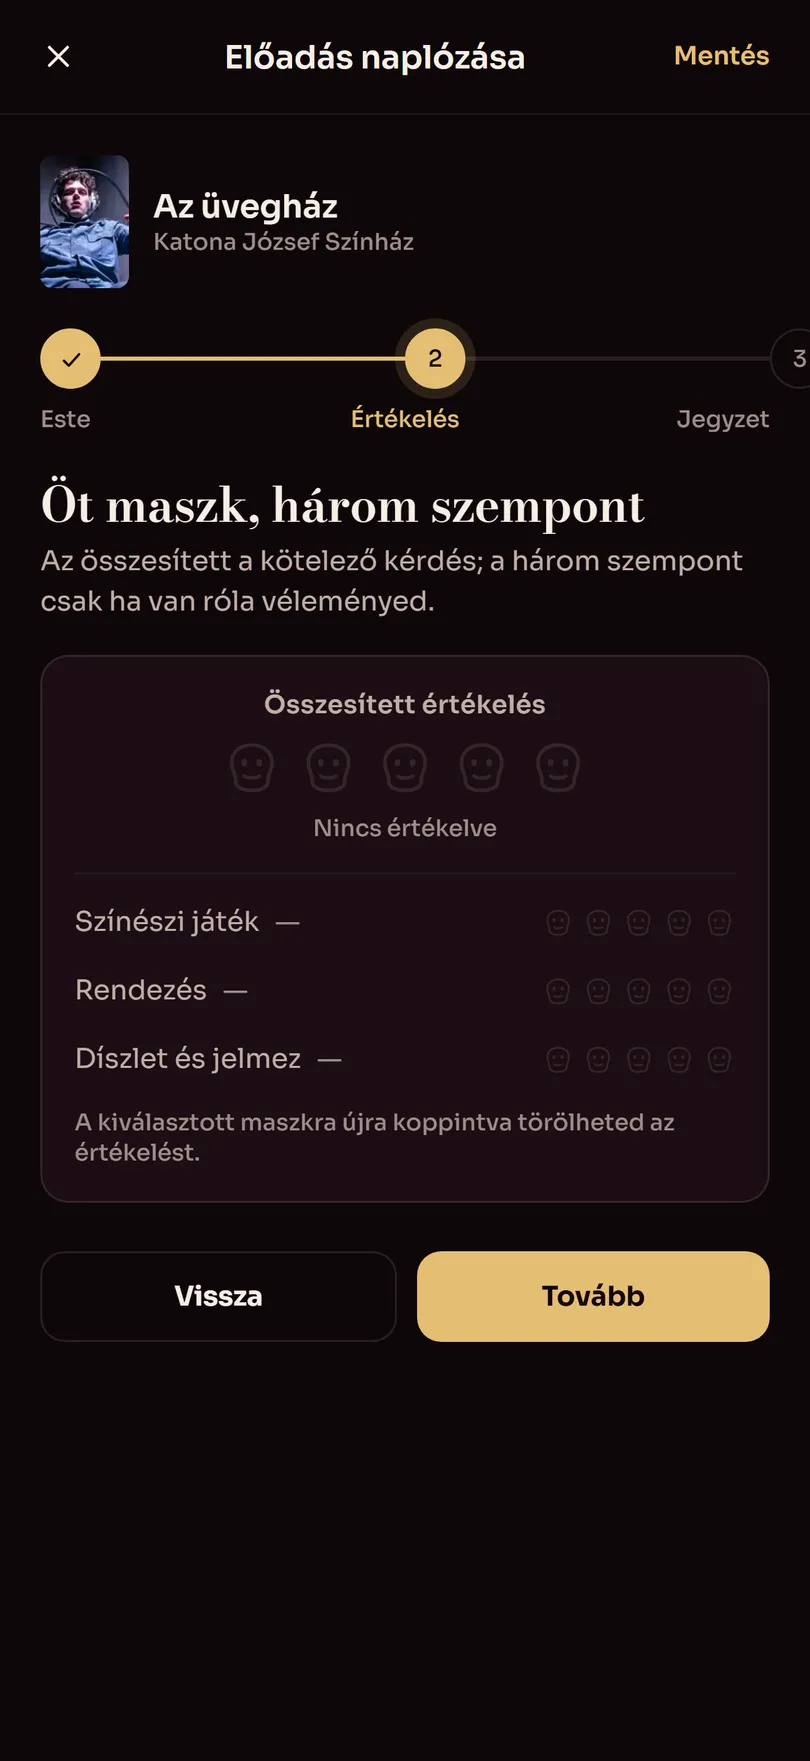
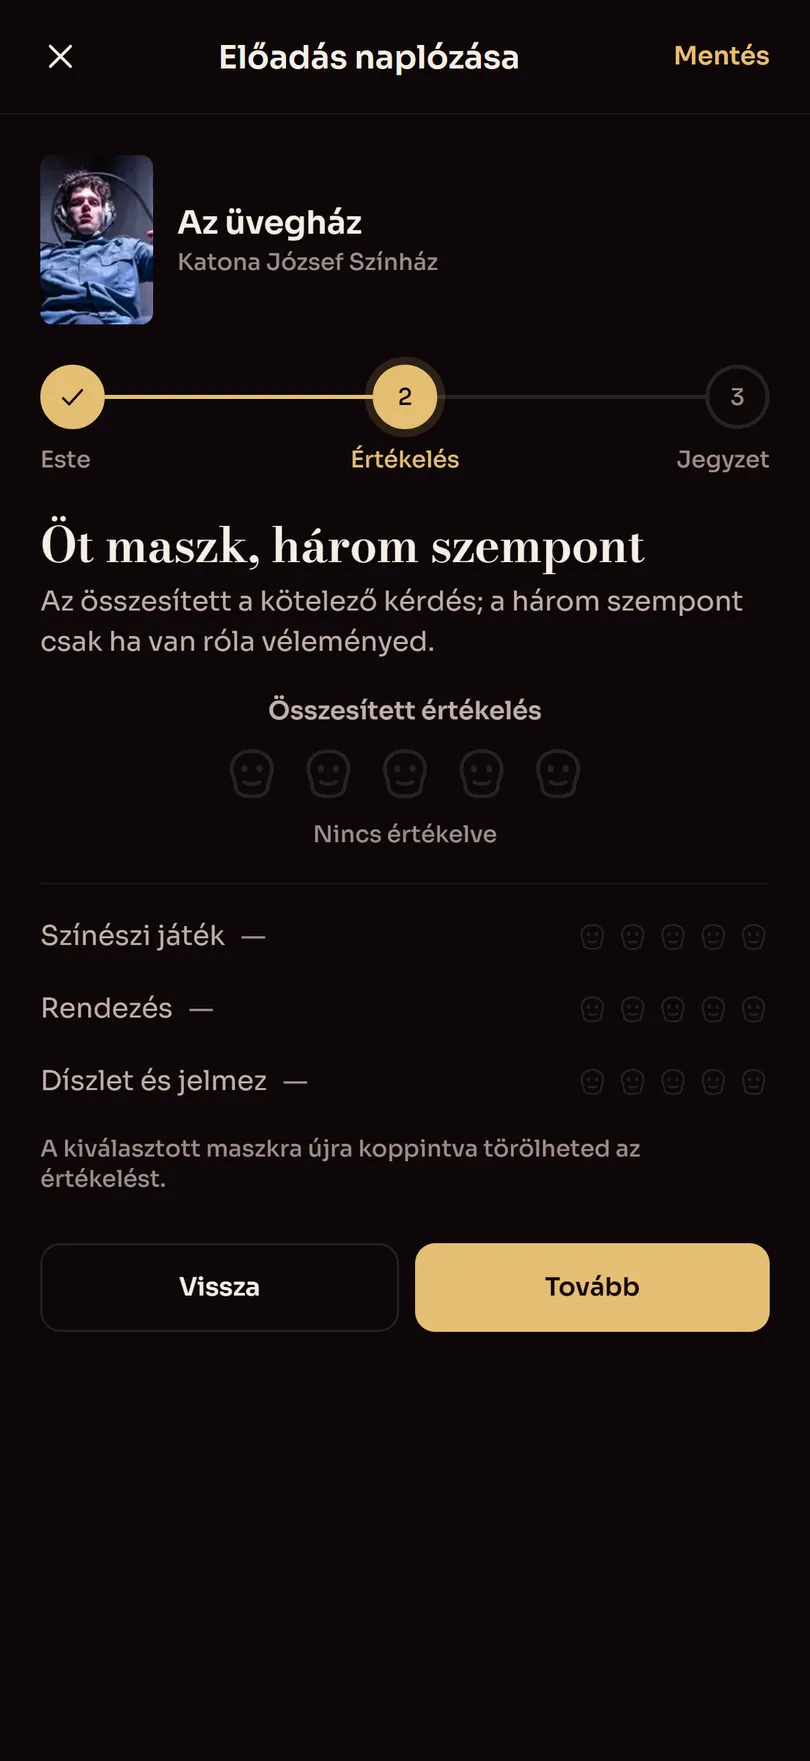
The screenshots catch up with the app they are of
All nine were taken before the Velvet Curtain pass — four of them on 13
September, the rest on the 18th — so for the last nine days the landing
page, the questionnaire, the share card and the Play listing have all
been advertising an app that no longer exists. Forty commits touching
`app/`, `theme/` and `components/` landed in between, including every
screen on the page.

Re-taken against the deployed site, which is the honest source: it runs
the same bundle a visitor would get.

**Five new evenings on the demo accounts first, with Ottó's approval.**
The newest entry was 15 September, so the feed read two weeks old and got
quieter every day — a landing page whose only visible activity is
fortnight-old reads as abandoned, which is T-024's point and the trap it
warned about: re-taking the shot is what surfaces it.

Insert only. Nothing existing was changed or removed, Eszter's *Az
üvegház* entry is untouched because the check-in shot depends on which
entry it returns, and every row is a real performance that actually
played on its date, at a house in that account's own city, against a
production with a complete poster and cast:

| Who | Production | Venue | Played |
|---|---|---|---|
| Nagy Zsófia | Evita | Madách | 20 Sept |
| Nagy Zsófia | Magányos emberek | Katona | 19 Sept |
| Kovács Bence | Bernarda Alba háza | Csokonai | 22 Sept |
| Kovács Bence | Tóték | Csokonai | 20 Sept |
| Tóth Eszter | A nagy Gatsby | Vígszínház | 20 Sept |
[…]

diff --git a/landing/index.html b/landing/index.html
@@ -367,8 +367,8 @@ footer a{color:var(--vc-text-faint);text-decoration:none}footer a:hover{color:va
       <div class="facts"><span data-t="fact1"><b>1241</b> produkció</span><span data-t="fact2"><b>Budapest</b> és <b>Debrecen</b></span><span data-t="fact3"><b>Éjszakánként</b> frissül</span><span data-t="fact4"><b>Nincs</b> hirdetés</span></div>
     </div>
     <div class="phones" aria-hidden="true">
-      <div class="ph a" data-tilt><img src="shots/discover.webp?v=30fead89" alt="" width="810" height="1761"><div class="glare"></div></div>
-      <div class="ph b" data-tilt><img src="shots/play.webp?v=f607f1bd" alt="" width="810" height="1761"><div class="glare"></div></div>
+      <div class="ph a" data-tilt><img src="shots/discover.webp?v=bc58d6e3" alt="" width="810" height="1761"><div class="glare"></div></div>
+      <div class="ph b" data-tilt><img src="shots/play.webp?v=82a32fd2" alt="" width="810" height="1761"><div class="glare"></div></div>
     </div>
   </div>
 </section>
@@ -432,7 +432,7 @@ footer a{color:var(--vc-text-faint);text-decoration:none}footer a:hover{color:va
           <ul><li data-t="act1Li1"><b>Műsor.</b> Nem darabok listája: estéké. Napokra bontva, teremmel, hosszal és műfajjal.</li><li data-t="act1Li2"><b>Rangsorolt keresés.</b> Ékezet nélkül is megtalálja. A „Csuja Imre” a színészre keres, nem a szavakra.</li><li data-t="act1Li3"><b>Szűrők.</b> Műfaj, színház, terjedelem, rendezés — ahol egy városban egy színház van, a színházszűrő elrejti magát.</li><li data-t="act1Li4"><b>Archívum.</b> Közel kilencszáz rég levett produkció. Kereshető marad, és naplózható.</li></ul>
           <div class="states"><span class="lbl" data-t="statesLbl">Négy állapot:</span><span class="state pre"><i></i><span data-t="stPre">Bemutató előtt</span></span><span class="state on"><i></i><span data-t="stOn">Műsoron</span></span><span class="state"><i></i><span data-t="stDormant">Szünetel</span></span><span class="state off"><i></i><span data-t="stOff">Levették</span></span></div>
         </div>
-        <div class="vis"><span class="roman">I.</span><div class="ph"><img src="shots/discover.webp?v=30fead89" data-t-alt="act1Alt" alt="Felfedezés képernyő: a ma esti kiemelt előadás, alatta a következő esték műsora" width="810" height="1761"></div></div>
+        <div class="vis"><span class="roman">I.</span><div class="ph"><img src="shots/discover.webp?v=bc58d6e3" data-t-alt="act1Alt" alt="Felfedezés képernyő: a ma esti kiemelt előadás, alatta a következő esték műsora" width="810" height="1761"></div></div>
       </article>
       <article class="act" id="naplo">
         <div class="txt"><span class="eyebrow" data-t="act2Eyebrow">II. felvonás · A napló</span><h3 data-t="act2Title">Öt maszk, három szempont, egy este.</h3>
@@ -441,14 +441,14 @@ footer a{color:var(--vc-text-faint);text-decoration:none}footer a:hover{color:va
           <p data-t="act2Body">Naplózz egy előadást: melyik estén voltál, és mit gondoltál róla. A színészi játékot, a rendezést és a díszletet külön értékeled — és megírhatod, amire évek múlva is emlékezni akarsz.</p>
           <ul><li data-t="act2Li1"><b>Az évad, nem a naptári év.</b> Szeptembertől augusztusig számol, ahogy a színházak is.</li><li data-t="act2Li2"><b>Újranézés.</b> Ugyanaz a darab másodszor külön bejegyzés — mert nem ugyanaz az este volt.</li><li data-t="act2Li3"><b>Címkék és jegyzet.</b> „Állótapsot kapott”, „Megkönnyeztem”, „Ajánlom” — és egy szabad szöveg, ha többet akarsz mondani.</li><li data-t="act2Li4"><b>A profilod egy bérlet.</b> Az évad végén összeszámolja: hány este, hány darab, kiket láttál a legtöbbször.</li></ul>
         </div>
-        <div class="vis"><span class="roman">II.</span><div class="ph"><img src="shots/checkin.webp?v=ab2f6fb8" data-t-alt="act2Alt" alt="Naplózás, az értékelés lépése: öt maszk az összesített értékeléshez, alatta a színészi játék, a rendezés és a díszlet külön" width="810" height="1761"></div></div>
+        <div class="vis"><span class="roman">II.</span><div class="ph"><img src="shots/checkin.webp?v=083c6963" data-t-alt="act2Alt" alt="Naplózás, az értékelés lépése: öt maszk az összesített értékeléshez, alatta a színészi játék, a rendezés és a díszlet külön" width="810" height="1761"></div></div>
       </article>
       <article class="act" id="alkotok">
         <div class="txt"><span class="eyebrow" data-t="act3Eyebrow">III. felvonás · Alkotók</span><h3 data-t="act3Title">Ki volt az a színésznő a második felvonásban?</h3>
           <p data-t="act3Body">A katalógus több mint négyezer névvel indul — ha egy szerepet ketten játszanak, mindkettőjüket tudja. Rákeresel egy színészre, és előjön minden előadás, amiben játszott: szereppel, évszámmal, színházzal. A rendezők ugyanígy.</p>
           <ul><li data-t="act3Li1"><b>Követés.</b> Szólunk, ha egy követett alkotó új előadásban lép színpadra.</li><li data-t="act3Li2"><b>Saját listák.</b> „Bodó Viktor Budapesten”: nyolc rendezés három színházban — egy linkkel, fiók nélkül is megnyitható.</li></ul>
         </div>
-        <div class="vis"><span class="roman">III.</span><div class="ph"><img src="shots/person.webp?v=6ba8bf2c" data-t-alt="act3Alt" alt="Egy alkotó oldala: az előadásai szereppel, évszámmal és színházzal" width="810" height="1761"></div></div>
+        <div class="vis"><span class="roman">III.</span><div class="ph"><img src="shots/person.webp?v=a6ffc587" data-t-alt="act3Alt" alt="Egy alkotó oldala: az előadásai szereppel, évszámmal és színházzal" width="810" height="1761"></div></div>
       </article>
     </div>
   </div>

diff --git a/landing/kutatas.html b/landing/kutatas.html
@@ -29,6 +29,7 @@
 <link rel="preconnect" href="https://fonts.gstatic.com" crossorigin>
 <link rel="stylesheet" href="https://fonts.googleapis.com/css2?family=Bodoni+Moda:opsz,wght@6..96,400;6..96,500;6..96,600;6..96,700&family=Sora:wght@300;400;500;600;700&display=swap">
 
+<script id="shot-stamps" type="application/json">{"checkin.webp":"083c6963","discover.webp":"bc58d6e3","feed.webp":"cbb32226","list.webp":"710eb9c9","musor.webp":"43eb3795","person.webp":"a6ffc587","play.webp":"82a32fd2","search.webp":"6f2b9cd8","user.webp":"2bbc94c4"}</script>
 <script id="vl-theme">
 (function(){
   var KEY="vastaps.landing.theme", INK={"dark":"#0a0507","light":"#faf5ec"}, root=document.documentElement;
@@ -291,6 +292,20 @@ dialog button:focus-visible { outline: 2px solid var(--vc-gold); outline-offset:
 (function () {
   "use strict";
 
+  /* The screenshots' cache-busting stamps, written by scripts/stamp-shots.ts.
+     Cloudflare caches shots/*.webp for a day and this page builds those URLs
+     in JavaScript, so without a stamp a re-taken shot could be a day late.
+     Falls back to the bare path, which is what the page did for its whole
+     life before the stamps existed. */
+  var SHOT_STAMPS = (function () {
+    try { return JSON.parse(document.getElementById("shot-stamps").textContent) || {}; }
+    catch (e) { return {}; }
+  })();
+  function shotUrl(name) {
+    var v = SHOT_STAMPS[name];
+    return "shots/" + name + (v ? "?v=" + v : "");
+  }
+
   // ── Where the answers go ───────────────────────────────────────────────
   // The publishable key is the same one the app ships in its bundle; it can
   // only do what Row Level Security lets `anon` do, which on this table is
@@ -438,7 +453,7 @@ dialog button:focus-visible { outline: 2px solid var(--vc-gold); outline-offset:
   // A rating row: the feature, and the four answers.
   function rateRow(f) {
     var opts = RATING_ANSWERS.map(function (id) { return { id: id, label: RATING_LABELS[id] }; });
-    var shot = f.shot ? ' <button type="button" class="linkish" data-shot="shots/' + esc(f.shot) + '">kép</button>' : "";
+    var shot = f.shot ? ' <button type="button" class="linkish" data-shot="' + esc(shotUrl(f.shot)) + '">kép</button>' : "";
     return '<div class="miss miss--rate" data-rate="' + esc(f.id) + '"><div><div class="miss__label">' + esc(f.label) + shot + '</div><div class="miss__detail">' + esc(f.detail) + "</div></div>" +
       chips("r:" + f.id, opts, state.ratings[f.id], false) + "</div>";
   }
@@ -459,7 +474,7 @@ dialog button:focus-visible { outline: 2px solid var(--vc-gold); outline-offset:
 
   function card(f, checked, disabled) {
     var thumb = f.shot
-      ? '<span class="card__thumb"><img src="shots/' + esc(f.shot) + '" alt="" loading="lazy" width="44" height="60"></span>'
+      ? '<span class="card__thumb"><img src="' + esc(shotUrl(f.shot)) + '" alt="" loading="lazy" width="44" height="60"></span>'
       : '<span class="card__thumb card__thumb--none" aria-hidden="true"></span>';
     return '<label class="card card--best"><input type="checkbox" name="best" value="' + esc(f.id) + '"' + (checked ? " checked" : "") + (disabled ? " disabled" : "") + ' aria-label="' + esc(f.label) + '">' +
       thumb + '<span class="card__text"><span class="card__label">' + esc(f.label) + '</span><span class="card__detail">' + esc(f.detail) + '</span></span>' +

diff --git a/scripts/stamp-shots.ts b/scripts/stamp-shots.ts
@@ -18,9 +18,26 @@
  *
  * Idempotent: an already-stamped reference is re-stamped, so running it
  * twice changes nothing the second time.
+ *
+ * ## The questionnaire needs the same thing by another route
+ *
+ * `landing/kutatas.html` builds its nine image URLs in JavaScript, out of the
+ * design blob, so there is no literal `shots/name.webp` in its source for the
+ * pattern above to find. It has therefore never been stamped in its life,
+ * while `_headers` caches those nine files for a day like all the others — so
+ * a respondent who opened the page in the morning saw yesterday's app until
+ * the evening.
+ *
+ * Putting the hash in the design blob was the obvious fix and the wrong one:
+ * `scripts/research-design.test.ts` pins that blob against `designForPage()`,
+ * which would have made a pure design module read the filesystem at import
+ * time. Instead this writes a small manifest of its own, and the page's card
+ * renderer appends `?v=` from it, falling back to the bare path when the
+ * element is absent. The pinned blob is untouched, and the stamping logic
+ * stays in one script.
  */
 import { createHash } from "node:crypto";
-import { existsSync, readFileSync, writeFileSync } from "node:fs";
+import { existsSync, readdirSync, readFileSync, writeFileSync } from "node:fs";
 
 const PAGES = ["landing/index.html", "landing/og.html"];
 const REF = /shots\/([a-z0-9_-]+\.webp)(\?v=[0-9a-f]+)?/g;
@@ -45,3 +62,29 @@ for (const page of PAGES) {
   }
 }
 console.log(changed ? `${changed} file(s) updated.` : "All shot references already current.");
+
+/**
+ * The manifest the questionnaire reads: every shot's name against its hash.
+ */
+const MANIFEST_ID = "shot-stamps";
+const MANIFEST = new RegExp(`(<script id="${MANIFEST_ID}" type="application/json">)[\\s\\S]*?(</script>)`);
+const QUESTIONNAIRE = "landing/kutatas.html";
+
+if (existsSync(QUESTIONNAIRE)) {
+  const stamps: Record<string, string> = {};
+  for (const file of readdirSync("landing/shots")) {
+    if (!file.endsWith(".webp")) continue;
+    stamps[file] = createHash("sha1").update(readFileSync(`landing/shots/${file}`)).digest("hex").slice(0, 8);
+  }
+  const before = readFileSync(QUESTIONNAIRE, "utf8");
+  if (!MANIFEST.test(before)) {
+    console.warn(`${QUESTIONNAIRE} has no <script id="${MANIFEST_ID}"> element — its shots will serve from cache.`);
+  } else {
+    const after = before.replace(MANIFEST, `$1${JSON.stringify(stamps)}$2`);
+    if (after !== before) {
+      writeFileSync(QUESTIONNAIRE, after);
+      changed++;
+      console.log(`stamped ${QUESTIONNAIRE}`);
+    }
+  }
+}

diff --git a/landing/og.html b/landing/og.html
@@ -152,7 +152,7 @@ h1 em { font-style: italic; font-weight: var(--vl-weight-regular); color: var(--
   <div class="phone">
     <div class="phone__body">
       <div class="phone__screen">
-        <img id="shot" src="shots/discover.webp?v=30fead89" width="810" height="1761" alt="">
+        <img id="shot" src="shots/discover.webp?v=bc58d6e3" width="810" height="1761" alt="">
         <span class="phone__glare"></span>
       </div>
     </div>
